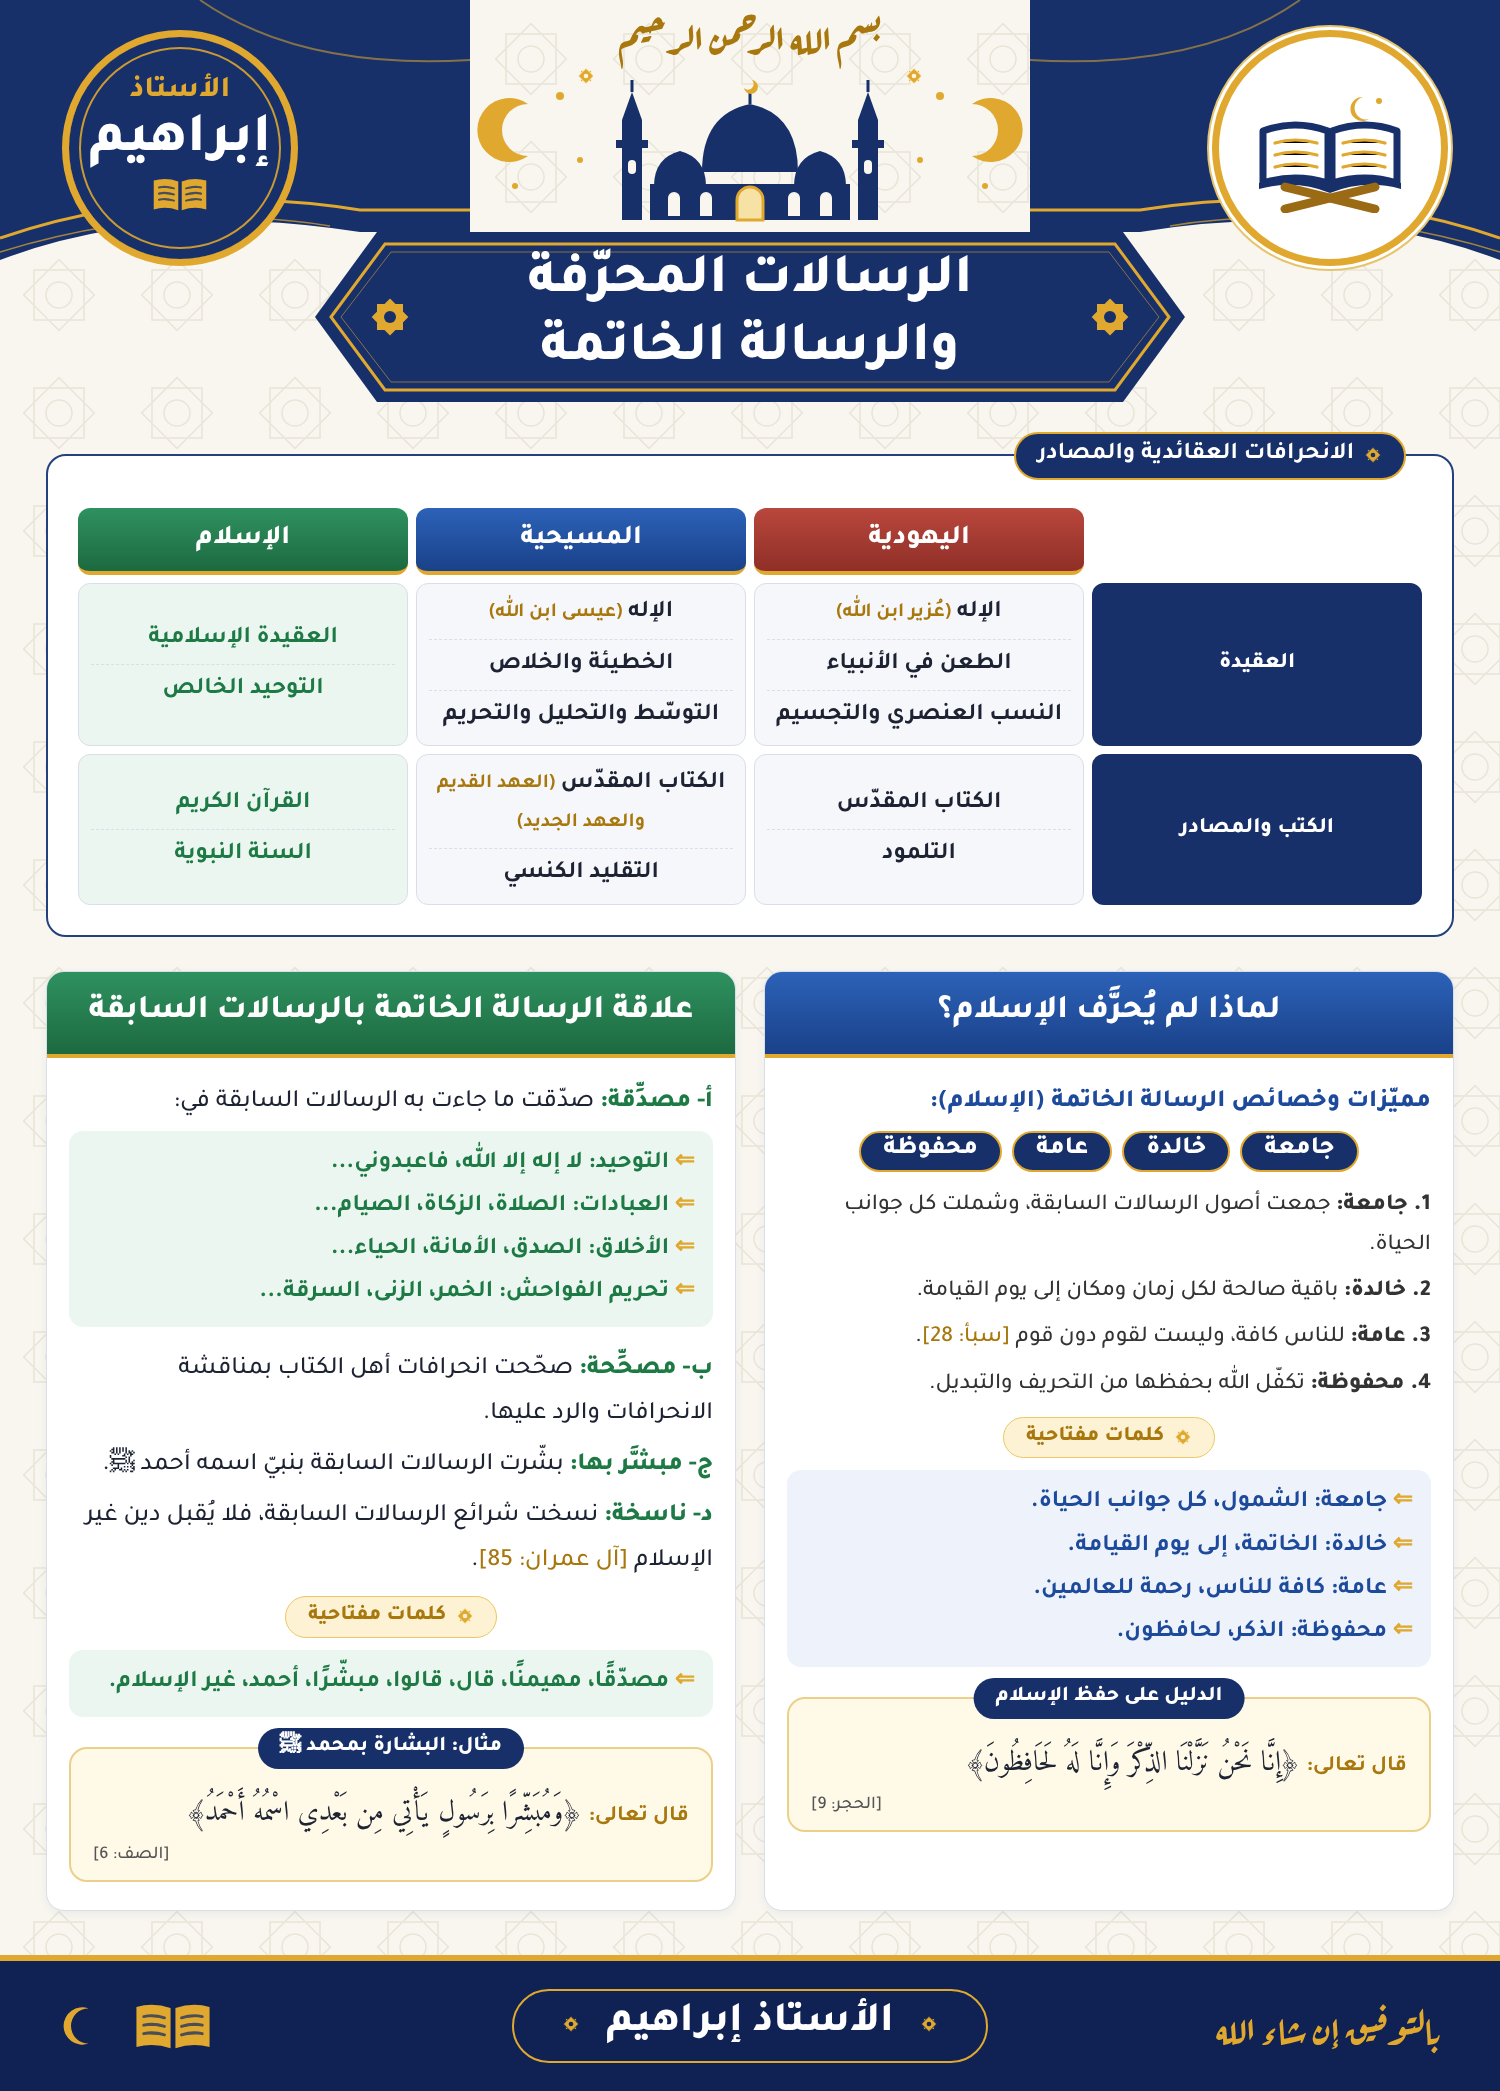
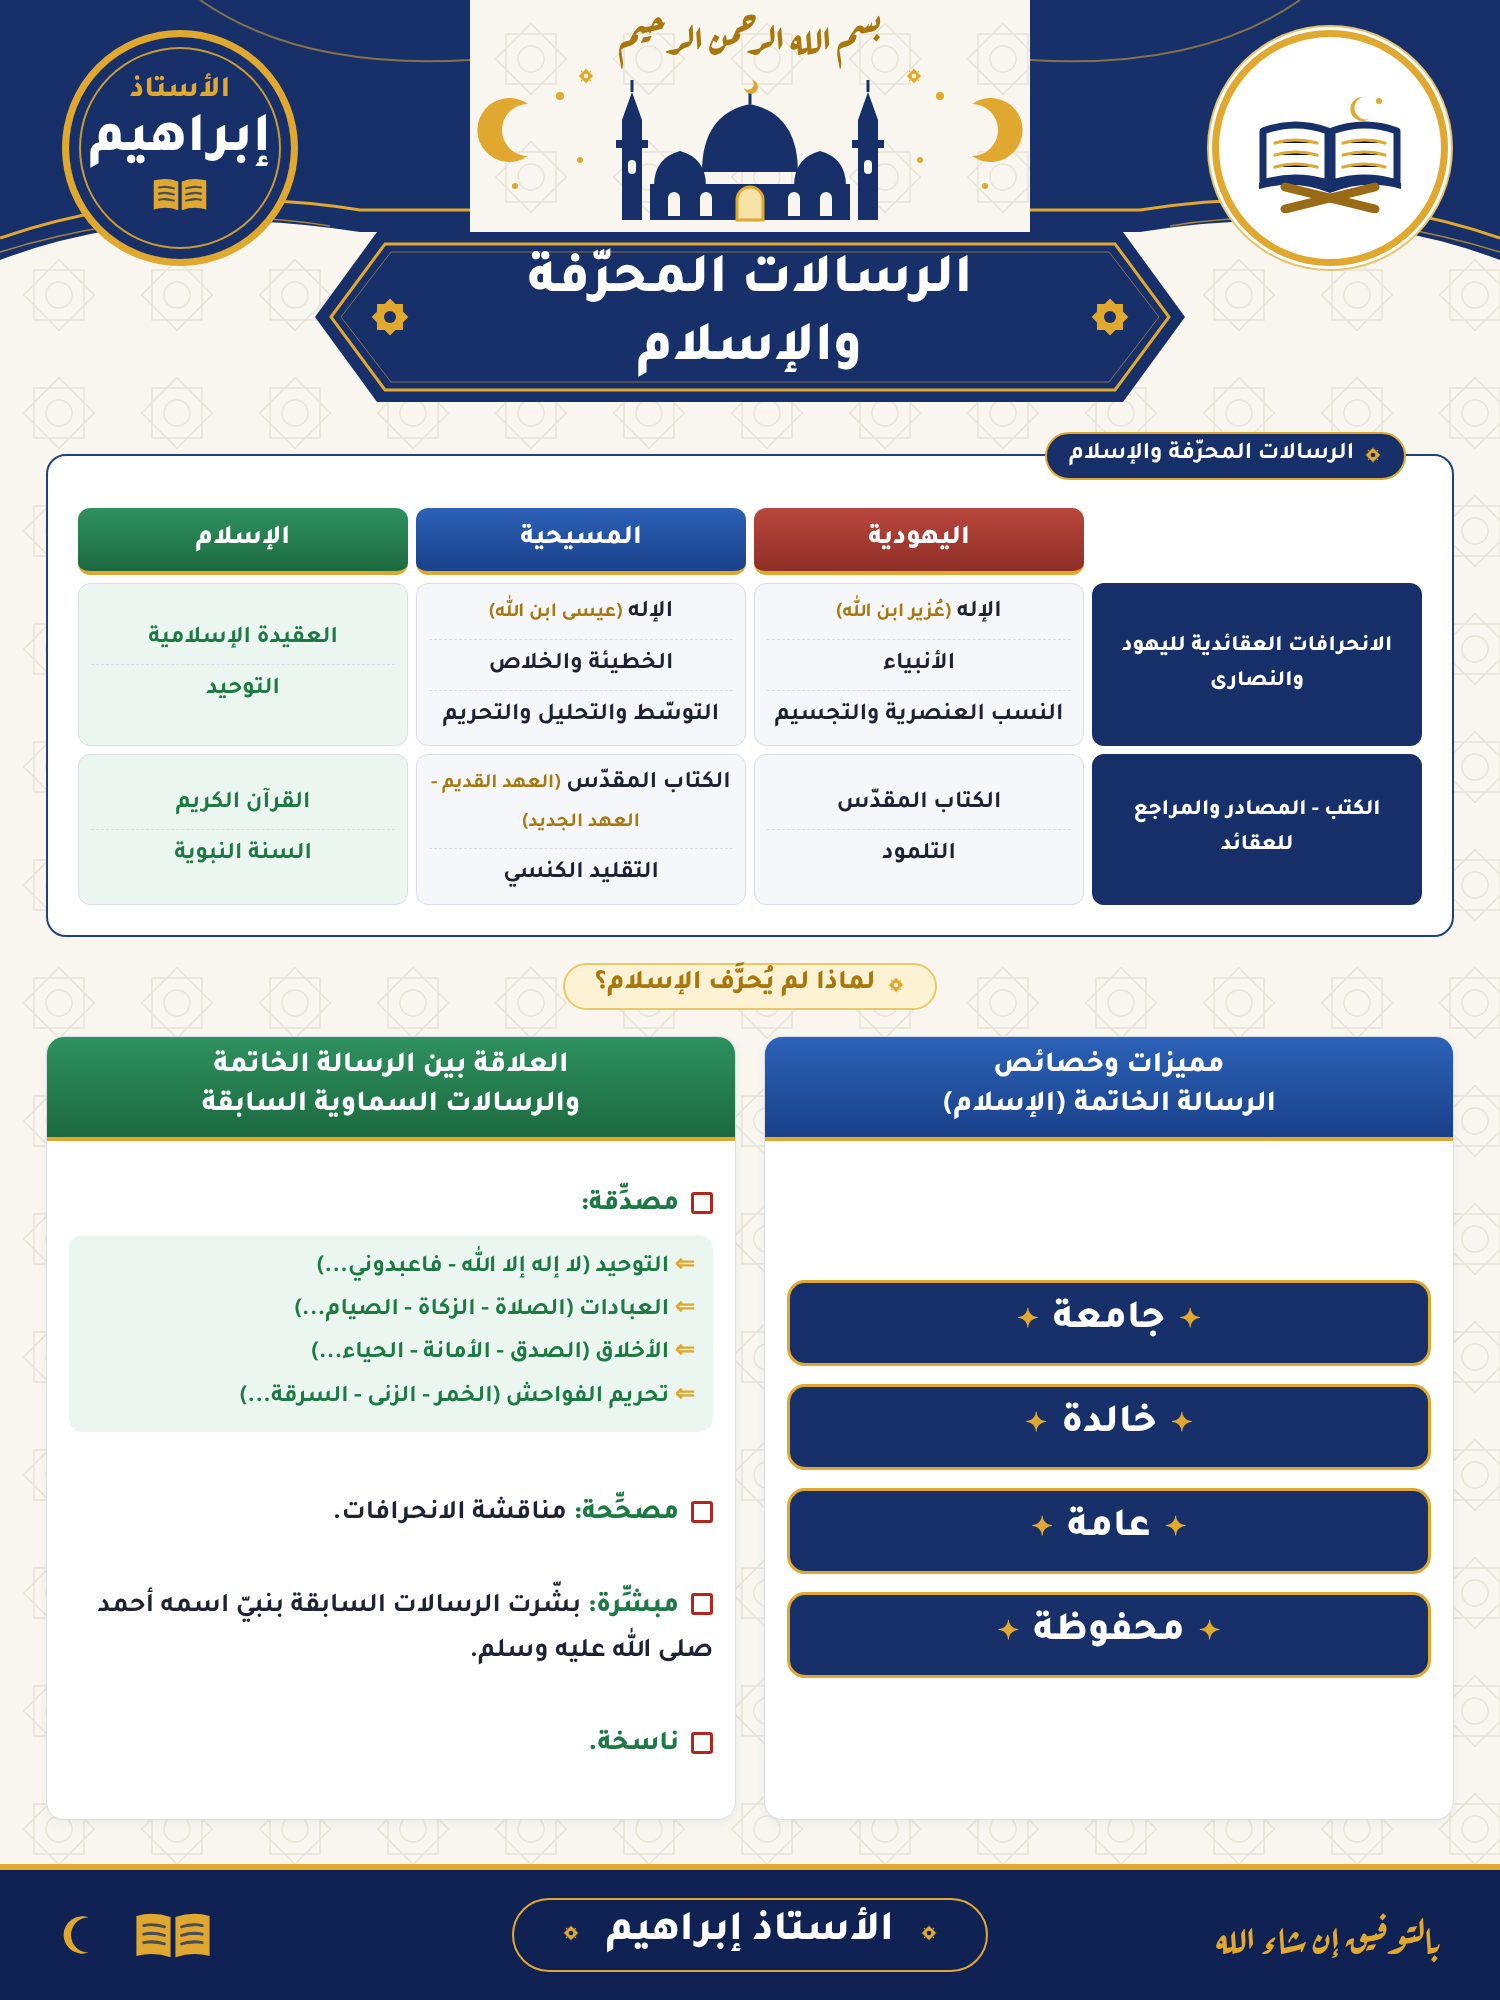
Redo distorted-messages poster with only the lesson's original content
Claude-Session: https://claude.ai/code/session_01Hr3qHndWcvfQCdzf7oRXMb

diff --git a/posters/risalat-muharrafa-khatima.html b/posters/risalat-muharrafa-khatima.html
@@ -2,73 +2,53 @@
 <html lang="ar" dir="rtl">
 <head>
 <meta charset="utf-8">
-<title>الرسالات المحرفة والرسالة الخاتمة</title>
+<title>الرسالات المحرفة والإسلام</title>
 <link rel="stylesheet" href="style.css">
 </head>
-<body data-title="الرسالات المحرّفة|والرسالة الخاتمة">
+<body data-title="الرسالات المحرّفة|والإسلام">
 
 <section class="def cmp">
-  <span class="tab">الانحرافات العقائدية والمصادر</span>
+  <span class="tab">الرسالات المحرّفة والإسلام</span>
   <table>
     <thead><tr><th class="rowh"></th><th class="y">اليهودية</th><th class="m">المسيحية</th><th class="i">الإسلام</th></tr></thead>
     <tbody>
-      <tr><th>العقيدة</th>
-        <td><span>الإله <small>(عُزير ابن الله)</small></span><span>الطعن في الأنبياء</span><span>النسب العنصري والتجسيم</span></td>
+      <tr><th>الانحرافات العقائدية لليهود والنصارى</th>
+        <td><span>الإله <small>(عُزير ابن الله)</small></span><span>الأنبياء</span><span>النسب العنصرية والتجسيم</span></td>
         <td><span>الإله <small>(عيسى ابن الله)</small></span><span>الخطيئة والخلاص</span><span>التوسّط والتحليل والتحريم</span></td>
-        <td class="i"><span>العقيدة الإسلامية</span><span>التوحيد الخالص</span></td></tr>
-      <tr><th>الكتب والمصادر</th>
+        <td class="i"><span>العقيدة الإسلامية</span><span>التوحيد</span></td></tr>
+      <tr><th>الكتب - المصادر والمراجع للعقائد</th>
         <td><span>الكتاب المقدّس</span><span>التلمود</span></td>
-        <td><span>الكتاب المقدّس <small>(العهد القديم والعهد الجديد)</small></span><span>التقليد الكنسي</span></td>
+        <td><span>الكتاب المقدّس <small>(العهد القديم - العهد الجديد)</small></span><span>التقليد الكنسي</span></td>
         <td class="i"><span>القرآن الكريم</span><span>السنة النبوية</span></td></tr>
     </tbody>
   </table>
 </section>
 
-<div class="cols">
+<div class="task"><span>لماذا لم يُحرَّف الإسلام؟</span></div>
+
+<div class="cols fill">
   <article class="col blue">
-    <h2>لماذا لم يُحرَّف الإسلام؟</h2>
+    <h2 class="long">مميزات وخصائص<br>الرسالة الخاتمة (الإسلام)</h2>
     <div class="in">
-      <p class="item"><b>مميّزات وخصائص الرسالة الخاتمة (الإسلام):</b></p>
-      <div class="chips"><span>جامعة</span><span>خالدة</span><span>عامة</span><span>محفوظة</span></div>
-      <p class="sub"><b>1. جامعة:</b> جمعت أصول الرسالات السابقة، وشملت كل جوانب الحياة.</p>
-      <p class="sub"><b>2. خالدة:</b> باقية صالحة لكل زمان ومكان إلى يوم القيامة.</p>
-      <p class="sub"><b>3. عامة:</b> للناس كافة، وليست لقوم دون قوم <span class="ref" style="color:var(--gold-d)">[سبأ: 28]</span>.</p>
-      <p class="sub"><b>4. محفوظة:</b> تكفّل الله بحفظها من التحريف والتبديل.</p>
-      <div class="pill"><span>كلمات مفتاحية</span></div>
-      <div class="kw multi">
-        <span class="ln">جامعة: الشمول، كل جوانب الحياة.</span>
-        <span class="ln">خالدة: الخاتمة، إلى يوم القيامة.</span>
-        <span class="ln">عامة: كافة للناس، رحمة للعالمين.</span>
-        <span class="ln">محفوظة: الذكر، لحافظون.</span>
-      </div>
-      <div class="ex">
-        <span class="lbl">الدليل على حفظ الإسلام</span>
-        <p>قال تعالى: <span class="ay">﴿إِنَّا نَحْنُ نَزَّلْنَا الذِّكْرَ وَإِنَّا لَهُ لَحَافِظُونَ﴾</span></p>
-        <span class="ref">[الحجر: 9]</span>
-      </div>
+      <div class="tiles"><span>جامعة</span><span>خالدة</span><span>عامة</span><span>محفوظة</span></div>
     </div>
   </article>
 
   <article class="col green">
-    <h2>علاقة الرسالة الخاتمة بالرسالات السابقة</h2>
+    <h2 class="long">العلاقة بين الرسالة الخاتمة<br>والرسالات السماوية السابقة</h2>
     <div class="in">
-      <p class="item"><b>أ- مصدِّقة:</b> صدّقت ما جاءت به الرسالات السابقة في:</p>
-      <div class="kw multi">
-        <span class="ln">التوحيد: لا إله إلا الله، فاعبدوني...</span>
-        <span class="ln">العبادات: الصلاة، الزكاة، الصيام...</span>
-        <span class="ln">الأخلاق: الصدق، الأمانة، الحياء...</span>
-        <span class="ln">تحريم الفواحش: الخمر، الزنى، السرقة...</span>
+      <div>
+        <p class="sq"><b>مصدِّقة:</b></p>
+        <div class="kw multi">
+          <span class="ln">التوحيد (لا إله إلا الله - فاعبدوني...)</span>
+          <span class="ln">العبادات (الصلاة - الزكاة - الصيام...)</span>
+          <span class="ln">الأخلاق (الصدق - الأمانة - الحياء...)</span>
+          <span class="ln">تحريم الفواحش (الخمر - الزنى - السرقة...)</span>
+        </div>
       </div>
-      <p class="item"><b>ب- مصحِّحة:</b> صحّحت انحرافات أهل الكتاب بمناقشة الانحرافات والرد عليها.</p>
-      <p class="item"><b>ج- مبشَّر بها:</b> بشّرت الرسالات السابقة بنبيّ اسمه أحمد ﷺ.</p>
-      <p class="item"><b>د- ناسخة:</b> نسخت شرائع الرسالات السابقة، فلا يُقبل دين غير الإسلام <span style="color:var(--gold-d)">[آل عمران: 85]</span>.</p>
-      <div class="pill"><span>كلمات مفتاحية</span></div>
-      <div class="kw">مصدّقًا، مهيمنًا، قال، قالوا، مبشّرًا، أحمد، غير الإسلام.</div>
-      <div class="ex">
-        <span class="lbl">مثال: البشارة بمحمد ﷺ</span>
-        <p>قال تعالى: <span class="ay">﴿وَمُبَشِّرًا بِرَسُولٍ يَأْتِي مِن بَعْدِي اسْمُهُ أَحْمَدُ﴾</span></p>
-        <span class="ref">[الصف: 6]</span>
-      </div>
+      <p class="sq"><b>مصحِّحة:</b> <span>مناقشة الانحرافات.</span></p>
+      <p class="sq"><b>مبشِّرة:</b> <span>بشّرت الرسالات السابقة بنبيّ اسمه أحمد صلى الله عليه وسلم.</span></p>
+      <p class="sq"><b>ناسخة.</b></p>
     </div>
   </article>
 </div>

diff --git a/posters/style.css b/posters/style.css
@@ -111,3 +111,13 @@ body{
 .def.cmp td small{color:var(--gold-d);font-weight:700}
 .chips{display:flex;flex-wrap:wrap;gap:10px;justify-content:center;margin:6px 0 16px}
 .chips span{background:var(--navy);color:#fff;border:2px solid var(--gold);border-radius:30px;padding:2px 22px 5px;font-size:25px;font-weight:800}
+
+/* ---------- big feature tiles + square bullets ---------- */
+.tiles{display:flex;flex-direction:column;gap:18px}
+.tiles span{display:flex;align-items:center;justify-content:center;gap:14px;background:var(--navy);color:#fff;border:3px solid var(--gold);border-radius:18px;padding:14px 0 18px;font-size:40px;font-weight:800}
+.tiles span::before,.tiles span::after{content:"✦";color:var(--gold);font-size:26px}
+.sq{font-size:27px;font-weight:800;margin:0 0 6px;line-height:1.7}
+.sq::before{content:"";display:inline-block;width:16px;height:16px;border:3px solid #b3261e;border-radius:3px;margin-inline-end:12px;vertical-align:middle}
+.sq b{color:var(--green)}
+.sq span{font-weight:600;color:#1d2333}
+.col > h2.long{height:auto;min-height:86px;padding:10px 18px 12px;font-size:29px;line-height:1.35;text-align:center}
